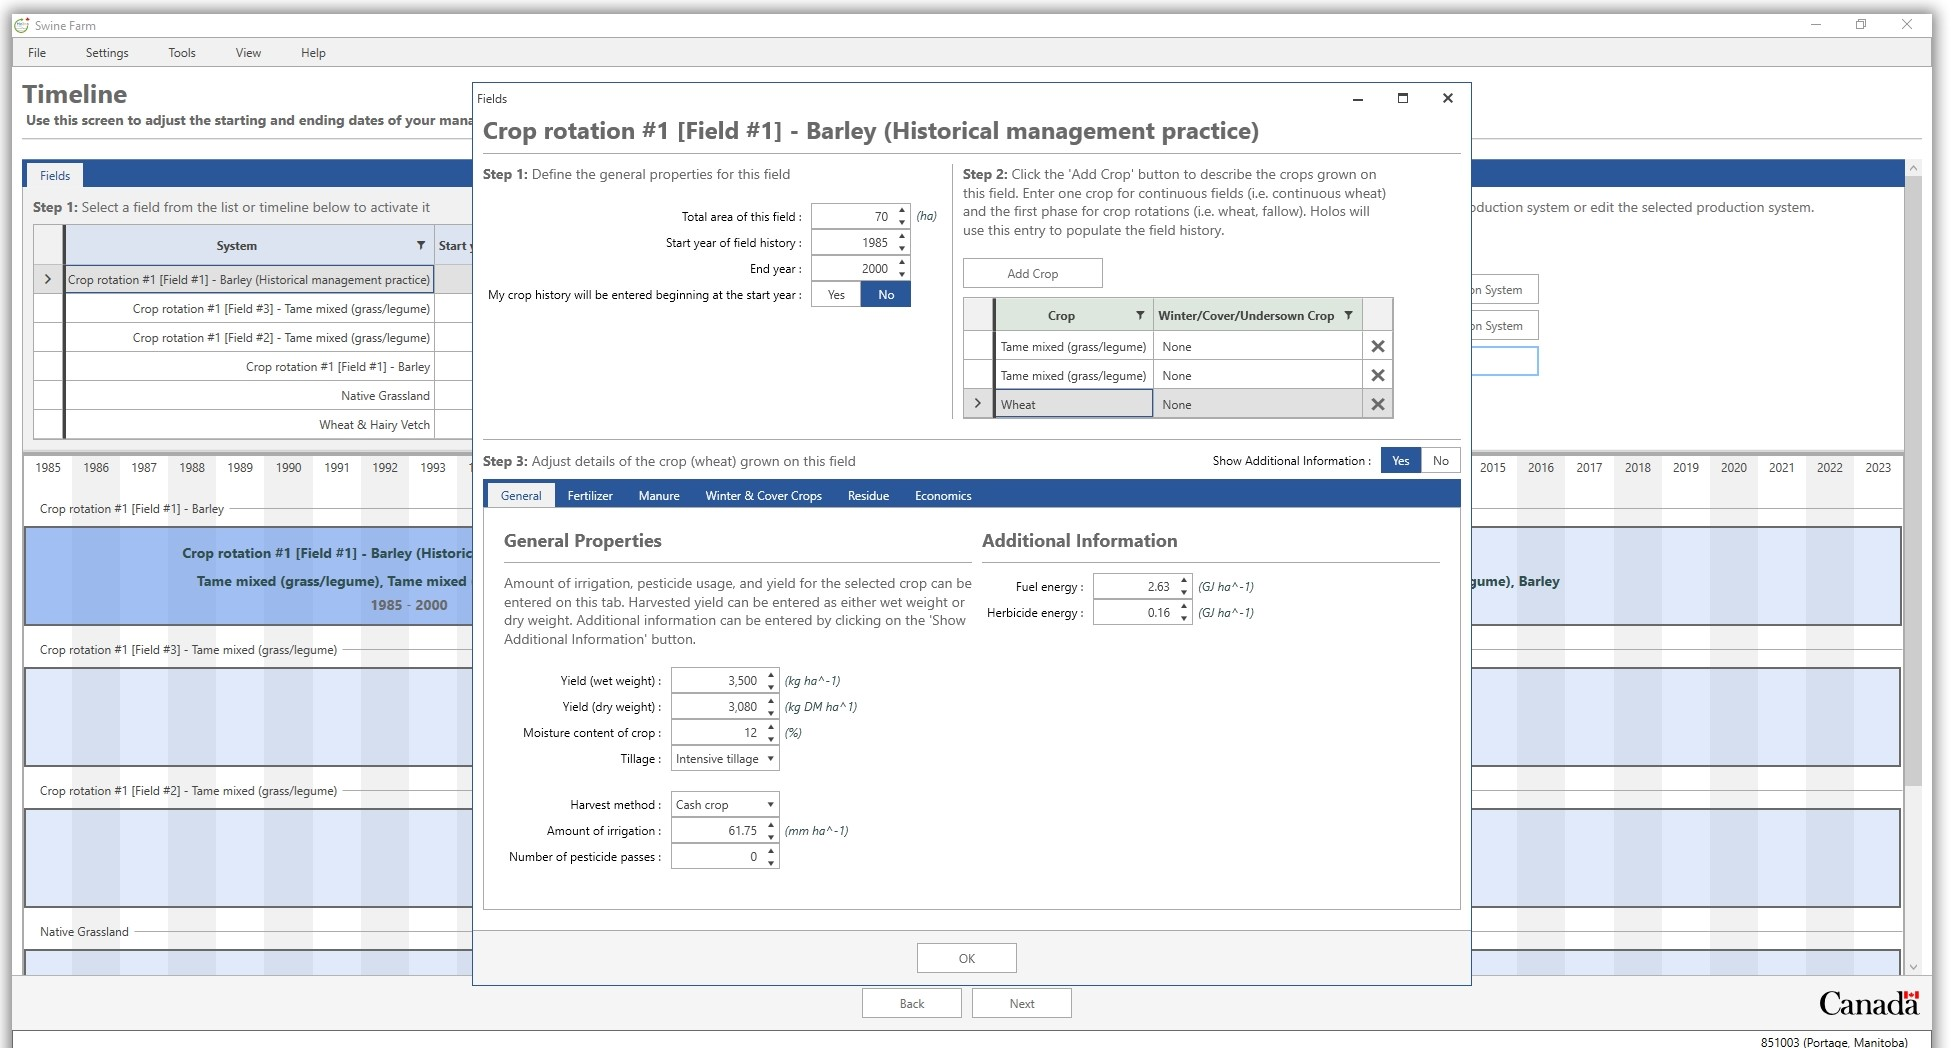
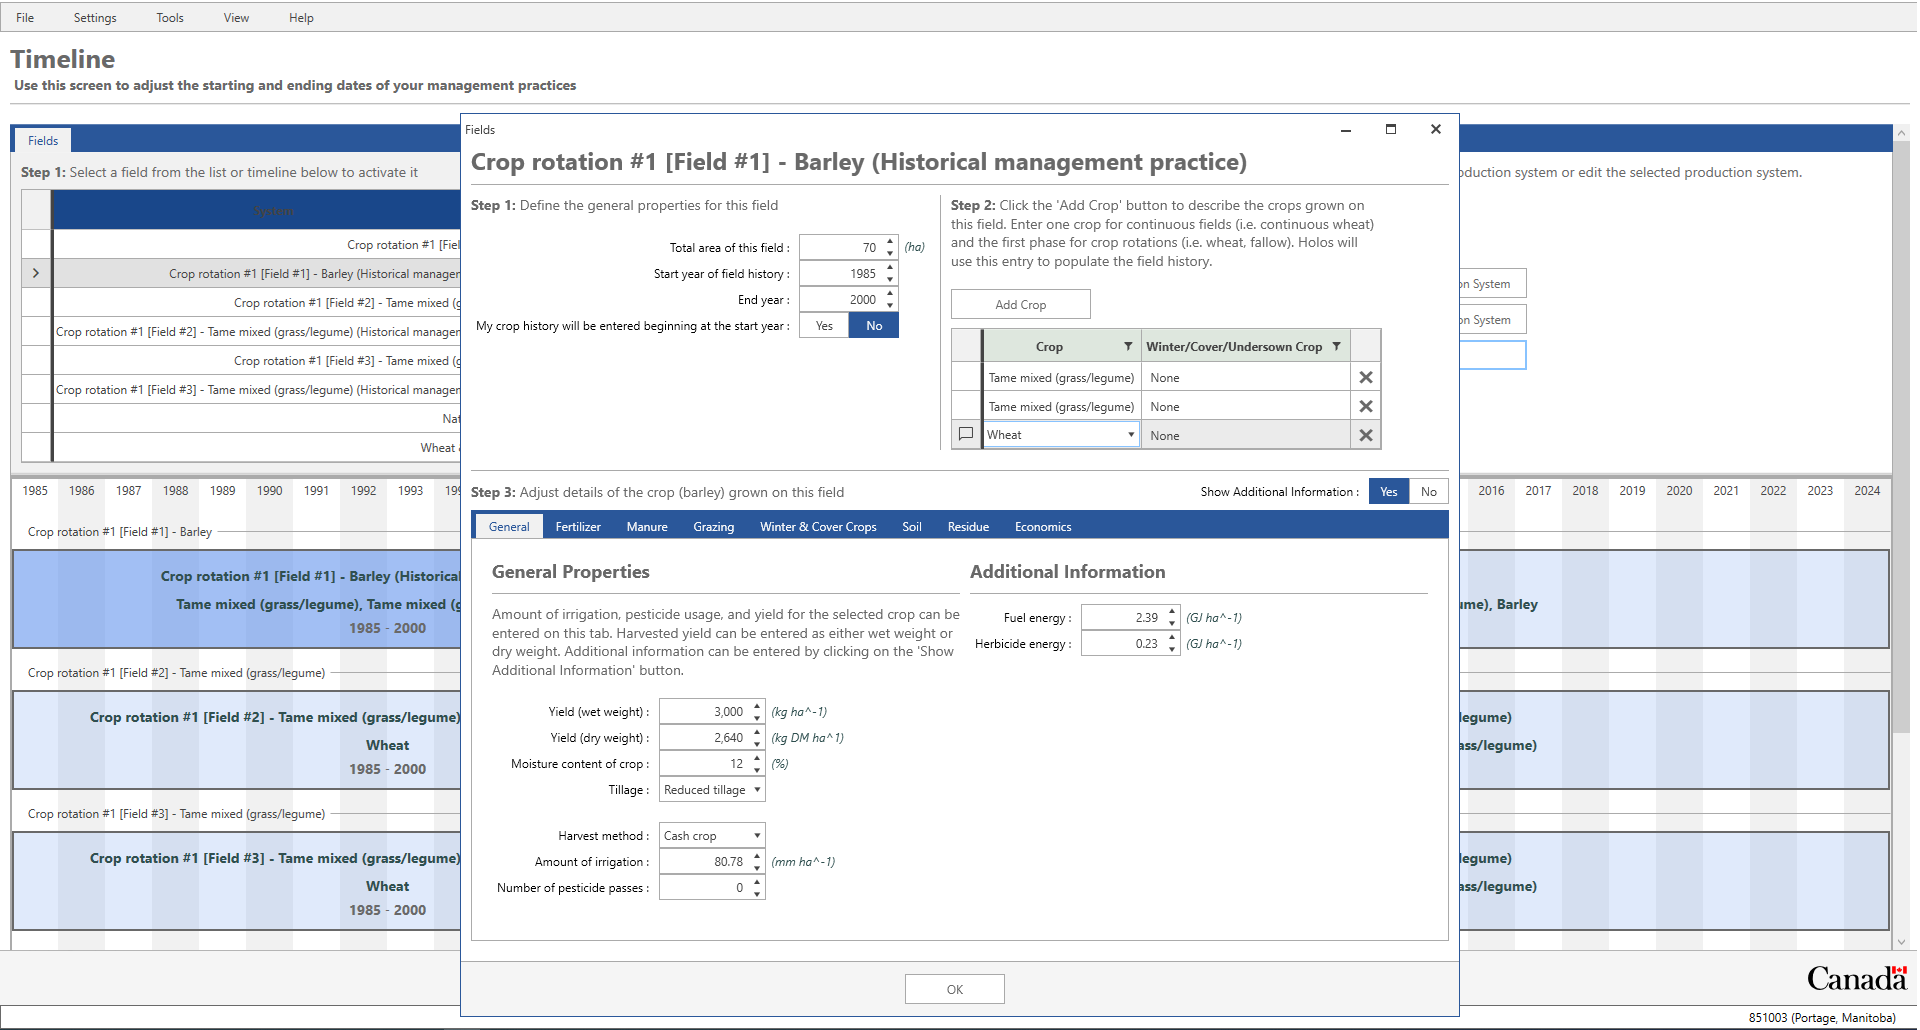
Updates to poultry guide

Changed region(s): [[0.0, 0.0, 1.0, 1.0], [0.75, 0.2485, 0.7812, 0.3728]]

diff --git a/H.Content/Documentation/Poultry Training Guide/Holos_4_Training_Guide_Poultry.md b/H.Content/Documentation/Poultry Training Guide/Holos_4_Training_Guide_Poultry.md
@@ -14,7 +14,7 @@ Please note that Holos 4 can be installed on a Microsoft Windows PC only. Mac OS
 
 Launch Holos by double-clicking on the Holos desktop icon. Holos will ask the user to open an existing farm, create a new farm, or import a saved farm file (Figure 1). If there is already a saved farm in the system, the user can click **Open**. If there are no saved farms in the system Holos will ask the user if they want to create a **New** farm or **Import** a saved farm file (i.e., a .json file). If the user creates a new farm, they are asked for the farm name and an optional comment (Figure 2).  
 
-Enter **"Holos 2023"** as the Name and **"Training Version"** as the Comments.  Click **OK** to proceed to the next screen.
+Enter **"Holos 2024"** as the Name and **"Training Version"** as the Comments.  Click **OK** to proceed to the next screen.
 
 Ensure **"Metric"** is selected as the unit of measurement type and then click the **Next** button at the bottom of the screen (Figure 3). 
 
@@ -236,20 +236,20 @@ For this example, we assume that the farm requires **70 ha** of barley grain and
 
 2. To expand the horizontal space available in Holos, click on "**View**" from the top menu bar and select "**Hide List of Available Components**".
 
-3. The rotation of this field begins in **"1985"** and ends in **"2023"**. Under **Step 1**, please ensure that these two values are set as the start and end year, respectively.
+3. The rotation of this field begins in **"1985"** and ends in **"2024"**. Under **Step 1**, please ensure that these two values are set as the start and end year, respectively.
 
 4. Enter **"70"** ha as the **total area** of this field.
 
-5. Under **Step 2** change the crop to **"Barley"**. The year for this crop should be **"2023"**.
+5. Under **Step 2** change the crop to **"Barley"**. The year for this crop should be **"2024"**.
     * Under the **General** Tab enter **"3,000 kg ha<sup>-1</sup>"** (wet weight) as the yield for this crop.
-     * Change the tillage type to **"Reduced Tillage"**.
-    * Keep **"0"** as the amount of irrigation and number of pesticide passes.
+    * Change the tillage type to **"Reduced Tillage"**.
+    * Keep **"80.78"** as the amount of irrigation and **"0"** as the number of pesticide passes.
 
 6. Now add another crop to this rotation. Click on "**Add Crop**" under "**Step 2**" to add a second crop to the rotation. 
 
 <br>
 
-> *Note: Holos sets the year for this new crop to 2022 or one before the previous crop's year. This means that Holos is expecting the user to enter crops that have been grown in reverse order back to 1985.*
+> *Note: Holos sets the year for this new crop to 2023 or one before the previous crop's year. This means that Holos is expecting the user to enter crops that have been grown in reverse order back to 1985.*
 
 > *It is not necessary to enter a crop for each individual year going back to 1985, only enough crops to describe a single phase of the rotation will need to be entered by the user. Holos will then copy the phase information and back-populate the field history (i.e., Holos will copy the rotation back to 1985 on behalf of the user).*
 
@@ -259,9 +259,10 @@ For this example, we assume that the farm requires **70 ha** of barley grain and
 
 8. Click on the **Add crop** button one more time. For this third crop, select **"Tame Mixed (grass/legume)"** once again as the crop type.
 
-9. Now add harvest data to each of the tame mixed crops. You will need to select each **tame mixed** crop and add the harvest data to that specific crop. So select the first tame mixed crop (2022) and then:
+9. Now add harvest data to each of the tame mixed crops. You will need to select each **tame mixed** crop and add the harvest data to that specific crop. So select the first tame mixed crop (2023) and then:
     * Under the **Harvest Tab** click the **"Add Harvest Date"** button to create a new harvest.
-    * Select a Harvest date of "**"August 31, 2022"**", assuming the harvest is done on the same day every year.
+    * Select a Harvest date of "**"August 31, 2023
+    "**", assuming the harvest is done on the same day every year.
     * Select **"Mid"** for Forage growth stage.
     * Enter **"5"** as the total number of bales.
     * Enter **"500"** as the Wet bale weight.
@@ -305,13 +306,13 @@ If you hover your mouse cursor over the “Chicken Meat Production” component 
 
 Click on **View** menu item in the top taskbar and uncheck the **Hide List of Available Components** option. 
 
-The poultry meat production farm is **divided into three  management (production) periods** for both pullet and cockerels. We will enter production and management data corresponding to these three management periods for both of these animal groups. 
+The poultry meat production farm is **divided into three  management (production) periods**. We will enter production and management data corresponding to these three management periods.
 
-1. Under **Step 1**, make sure that the “**Pullets**” row is selected.
+1. Under **Step 1**, make sure that the “**Broilers**” row is selected.
 
 2. Click the management period “**Brooding**” in **Step 2** to activate that management period.
 
-3. Ensure “**January 1, 2023**” appears as the **Start date** and that “**January 15, 2022**” appears as the **End date**. These dates are set as the defaults.
+3. Ensure “**January 1, 2024**” appears as the **Start date** and that “**January 15, 2024**” appears as the **End date**. These dates are set as the defaults.
 
  Keep the remaining entries as their default values for the two "**Rearing stage**" management periods. Thus, all three management periods will be 14 days in length. 
 
@@ -325,8 +326,6 @@ Next, we can enter data related to the number of animals, manure system, and hou
 
 * **Manure Tab**:
     * Leave **Solid storage (with or without litter)** as the default manure handling system.
-    
-We can now go back and fill in the selections for the **Cockerels** group. Highlight the the "**Pullets**" group and right click on it to activate the **Copy Management From -> Pullets**. All of the previously entered information will appear within the **Cockerels** group. 
 
 > *Note: The number of animals, average daily gain, and feed quality are the minimum required inputs for calculating methane and nitrous oxide emissions. Length of management periods (e.g., duration of grazing) will also be needed.*
 
@@ -355,7 +354,7 @@ Click on the "**Hens**" row in the animal group section in **Step 1**. Informati
 
 2. Click the management period “**Brooding**” in **Step 2** to activate that management period.
 
-3. Ensure “**January 1, 2023**” appears as the **Start date** and that “**January 15, 2022**” appears as the **End date**. These dates are set as the defaults.
+3. Ensure “**January 1, 2024**” appears as the **Start date** and that “**January 15, 2024**” appears as the **End date**. These dates are set as the defaults.
 
 * **General Tab:**:
     * Enter **150,000** as the number of animals. 
